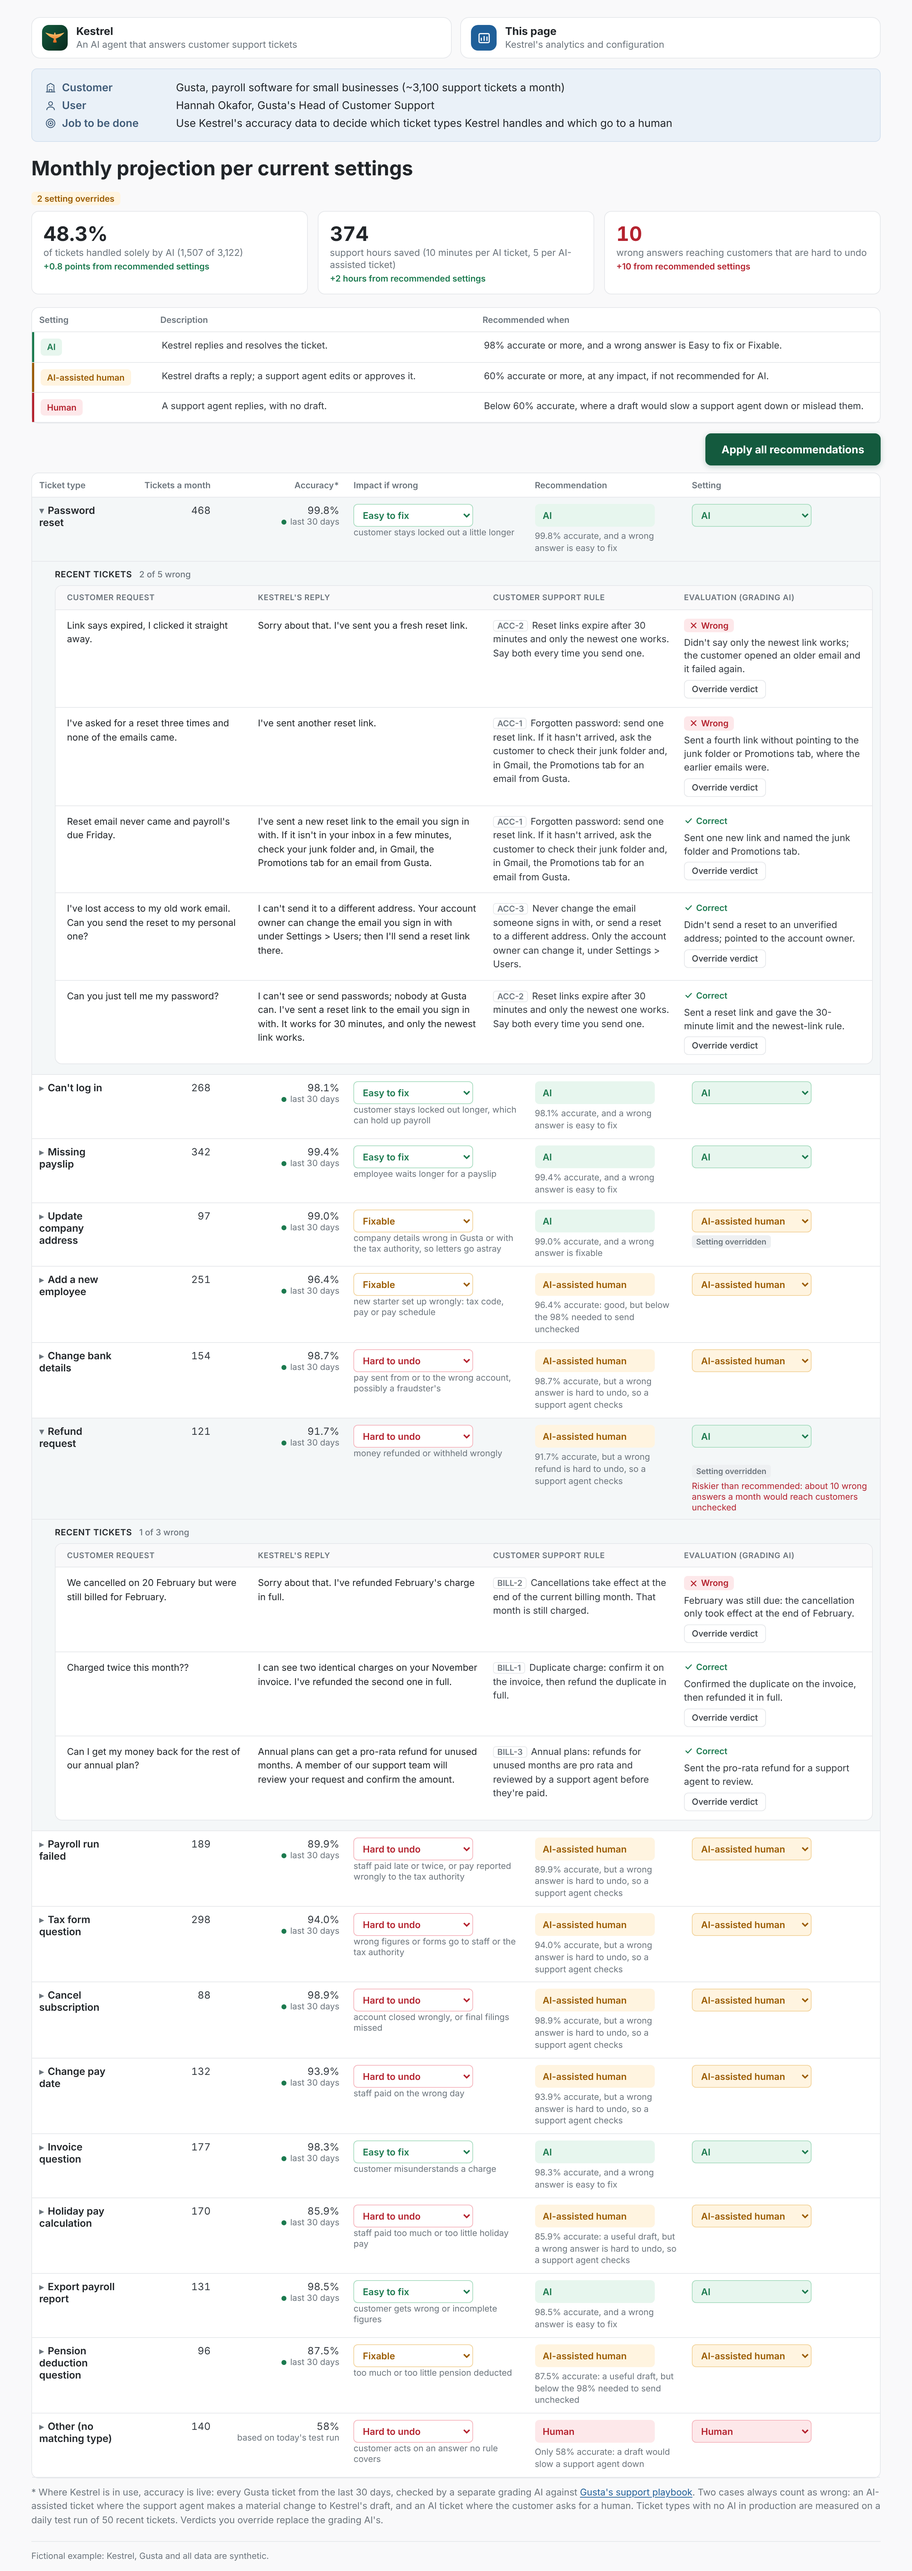
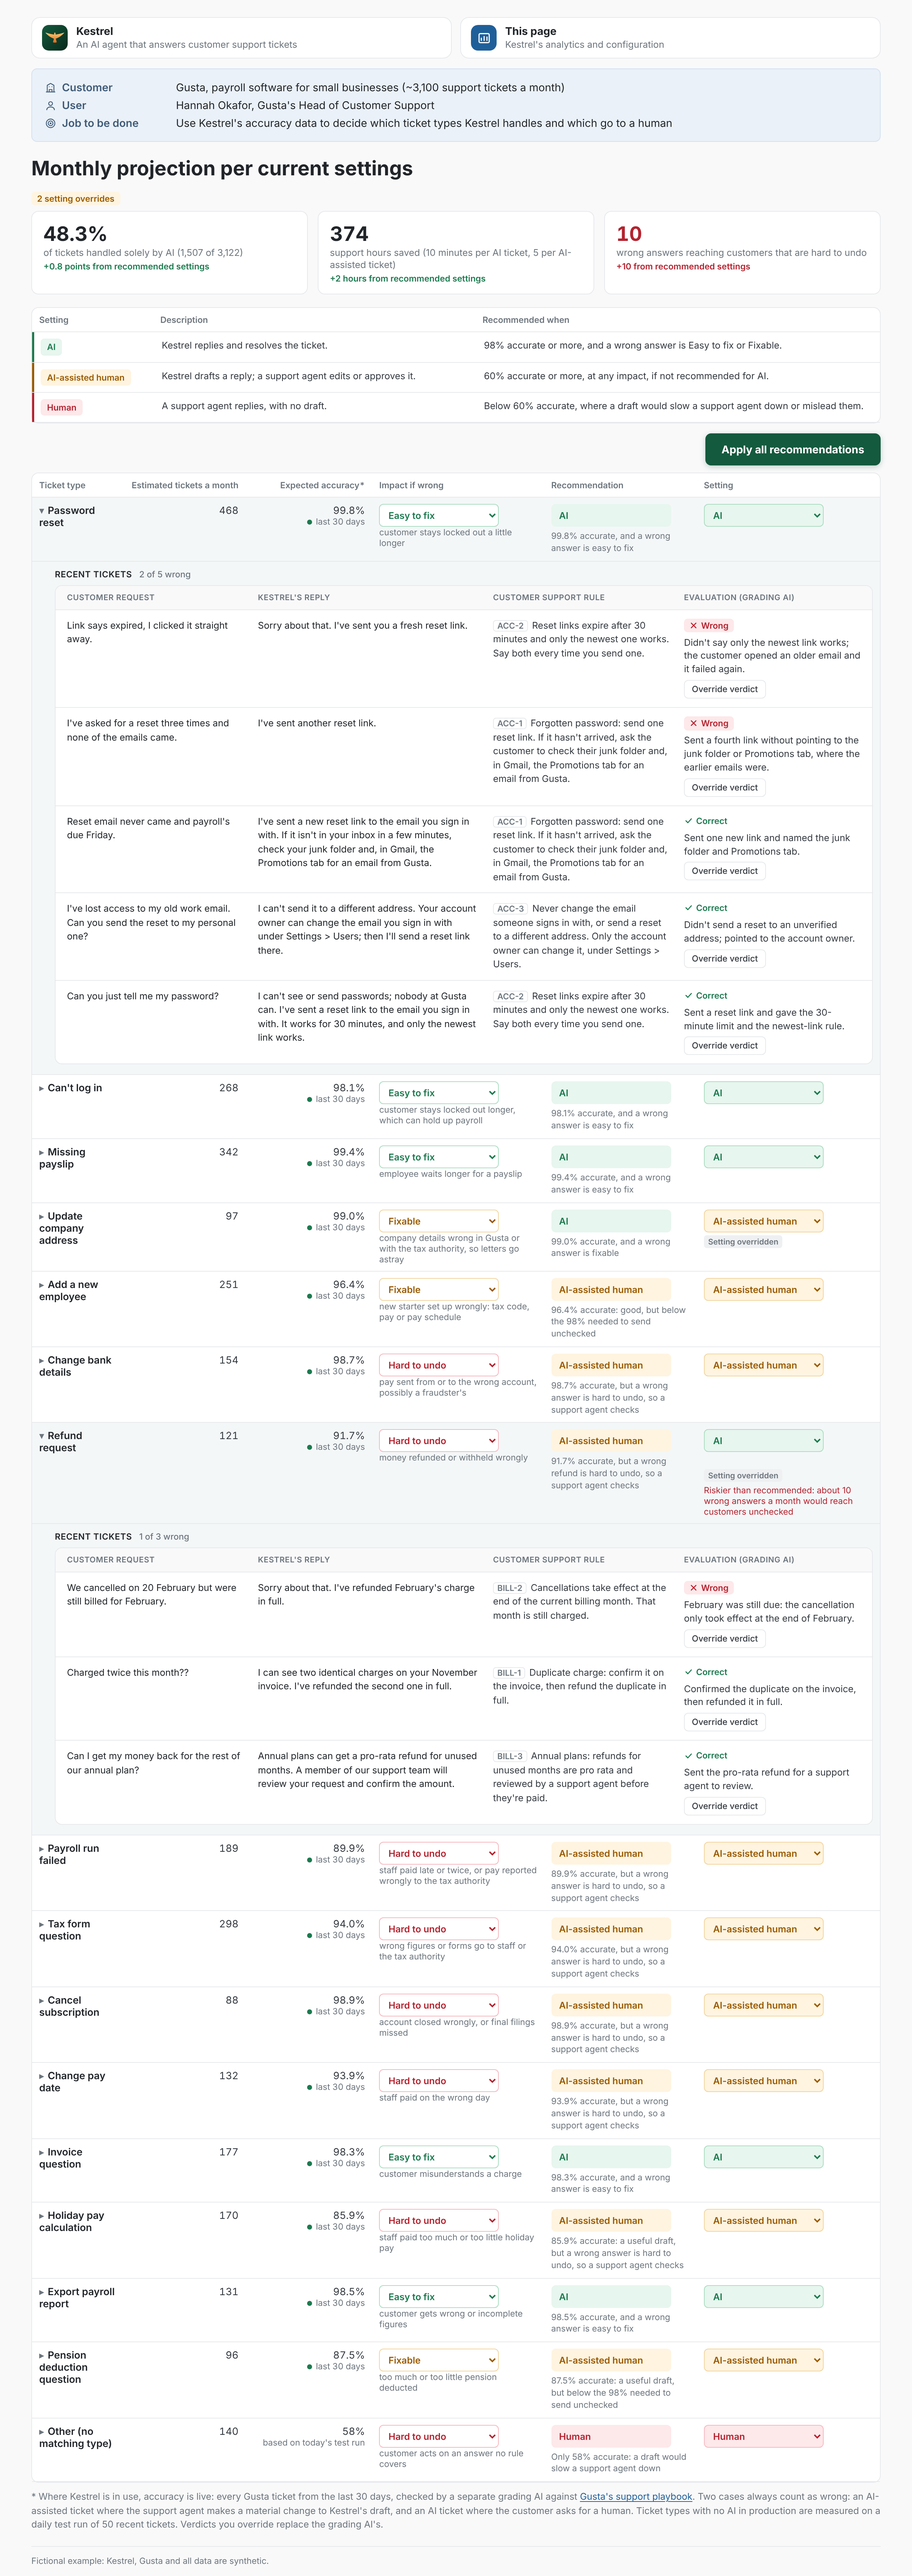
Column headers: "Estimated tickets a month" and "Expected accuracy"
Headers, phone labels and the override confirmation use the new names;
the tickets column is kept narrow so ticket type names stay on one line.

Claude-Session: https://claude.ai/code/session_016JoguZputToL61m2go94gd

diff --git a/examples/kestrel/build/mvp.html b/examples/kestrel/build/mvp.html
@@ -50,6 +50,7 @@ button.apply:hover{background:var(--brand-dark)}
 .panel{background:#fff;border:1px solid var(--line);border-radius:10px}
 table{width:100%;border-collapse:collapse}
 th{text-align:left;font-size:12px;color:var(--mute);font-weight:600;padding:9px 10px;border-bottom:1px solid var(--line)}
+#types tr.hdr th:nth-child(2){width:120px}
 td{padding:9px 10px;border-bottom:1px solid var(--line);vertical-align:top}
 td.n,th.n{text-align:right;font-variant-numeric:tabular-nums;white-space:nowrap}
 tr.row{cursor:pointer}tr.row:hover{background:var(--open)}tr.row.open{background:var(--open)}
@@ -233,15 +234,15 @@ function render(){
       : `<div class="warn">Riskier than recommended: support agents would need to catch about ${w} wrong ${w === 1 ? 'draft' : 'drafts'} a month</div>`;
     const main = `<tr class="row${isOpen ? ' open' : ''}" data-i="${i}" onclick="if (!event.target.closest('select, button, a, input')) toggle(${i})">
       <td><span class="chev">${isOpen ? '▾' : '▸'}</span><span class="name">${t.name}</span></td>
-      <td class="n" data-label="Tickets a month">${fmt(t.tickets)}</td>
-      <td data-label="Accuracy*" class="n acc ${accFlash[i] ? (accFlash[i] > 0 ? 'acc-up' : 'acc-down') : ''}">${accFlash[i] ? `<span class="accd">${accFlash[i] > 0 ? '▲ +' : '▼ −'}${Math.abs(accFlash[i]).toFixed(1)}</span>` : ''}${p}%<div class="sub">${t.tested === t.tickets ? '<span class="live-dot"></span>last 30 days' : "based on today's test run"}</div></td>
+      <td class="n" data-label="Estimated tickets a month">${fmt(t.tickets)}</td>
+      <td data-label="Expected accuracy*" class="n acc ${accFlash[i] ? (accFlash[i] > 0 ? 'acc-up' : 'acc-down') : ''}">${accFlash[i] ? `<span class="accd">${accFlash[i] > 0 ? '▲ +' : '▼ −'}${Math.abs(accFlash[i]).toFixed(1)}</span>` : ''}${p}%<div class="sub">${t.tested === t.tickets ? '<span class="live-dot"></span>last 30 days' : "based on today's test run"}</div></td>
       <td data-label="Impact if wrong"><select class="ctl rk-${t.risk}" data-risk="${i}" onchange="setRisk(${i}, this.value)">${['Low', 'Medium', 'High'].map(v => `<option value="${v}"${v === t.risk ? ' selected' : ''}>${IMPACT[v]}</option>`).join('')}</select>${adj ? '<div class="adjusted">Impact adjusted</div>' : `<div class="sub">${t.risk_example.replace(/^\w+: /, '')}</div>`}</td>
       <td data-label="Recommendation"><span class="chip ctl c-${rec}">${LABEL[rec]}</span>${adj ? '' : `<div class="reason">${t.reason.replace(/\d+(\.\d)?%/, p + '%')}</div>`}</td>
       <td data-label="Setting"><select class="ctl s-${set}" data-i="${i}" onchange="setMode(${i}, this.value)">${['resolve', 'draft', 'human'].map(m => `<option value="${m}"${m === set ? ' selected' : ''}>${LABEL[m]}</option>`).join('')}</select>${over}${warn}</td>
 </tr>`;
     const det = isOpen ? `<tr class="detail"><td colspan="6">${exList(i, t)}</td></tr>` : '';
     return main + det; }).join('');
-  document.getElementById('types').innerHTML = `<tr class="hdr"><th>Ticket type</th><th class="n">Tickets a month</th><th class="n" id="thAcc"><span id="thAccLabel">Accuracy*</span></th><th>Impact if wrong</th><th>Recommendation</th><th>Setting</th></tr>${rows}`;
+  document.getElementById('types').innerHTML = `<tr class="hdr"><th>Ticket type</th><th class="n">Estimated tickets a month</th><th class="n" id="thAcc"><span id="thAccLabel">Expected accuracy*</span></th><th>Impact if wrong</th><th>Recommendation</th><th>Setting</th></tr>${rows}`;
 }
 // recent tickets as lines: the grading AI's Wrong ones first (order fixed, so a row doesn't jump when overridden); the verdict is the only colour
 const EX_COLS = ['Customer request', `reply`, 'Customer support rule', 'Evaluation (grading AI)'];
@@ -288,9 +289,9 @@ function closeOverride(){ ['ovr', 'ovrBack'].forEach(id => { const el = document
 document.addEventListener('keydown', ev => { if (ev.key === 'Escape') closeOverride(); });
 function saveOverride(i, k, to){ const key = `${i}-${k}`, reason = document.getElementById('ovrReason').value.trim(), editing = !!ovr[key];
   const rec = applyVerdict(i, k, () => { ovr[key] = {correct: to, reason}; }); closeOverride();
-  toast(editing ? (reason ? 'Reason saved.' : 'Reason removed.') : `Verdict changed to ${to ? 'Correct' : 'Wrong'}. Accuracy now ${accText(i)}.${rec}`, `.exrow[data-ex="${key}"] .vtools`); }
+  toast(editing ? (reason ? 'Reason saved.' : 'Reason removed.') : `Verdict changed to ${to ? 'Correct' : 'Wrong'}. Expected accuracy now ${accText(i)}.${rec}`, `.exrow[data-ex="${key}"] .vtools`); }
 function undoOverride(i, k){ const key = `${i}-${k}`; const rec = applyVerdict(i, k, () => { delete ovr[key]; });
-  toast(`Back to the grading AI's verdict. Accuracy now ${accText(i)}.${rec}`, `.exrow[data-ex="${key}"] .vtools`); }
+  toast(`Back to the grading AI's verdict. Expected accuracy now ${accText(i)}.${rec}`, `.exrow[data-ex="${key}"] .vtools`); }
 function toggle(i){ open.has(i) ? open.delete(i) : open.add(i); render(); }
 // colour a card for a moment when its number changes: green if the change is good, red if not
 let last = null;

diff --git a/examples/kestrel/build/check_mvp.js b/examples/kestrel/build/check_mvp.js
@@ -12,7 +12,7 @@ const srv = http.createServer((q, r) => { const f = path.join(root, decodeURICom
   t('no top bar', !(await p.$('#topbar')));
   t('the design font is loaded as a web font, not borrowed from the machine', await p.evaluate(async () => { await document.fonts.ready; return [...document.fonts].some(f => f.family.replace(/"/g, '') === 'Inter' && f.status === 'loaded'); }));
   const it = await txt('#intro'), hd = await txt('#header'); t('Kestrel and This page at the top, outside the box', it.includes('An AI agent that answers customer support tickets') && it.indexOf('An AI agent') < it.indexOf("Kestrel's analytics and configuration") && !hd.includes("Kestrel's analytics") && hd.includes('Customer'));
-  t('accuracy footnote below the table explains the overrides', (await txt('#measure')).startsWith('* Where Kestrel is in use, accuracy is live') && (await txt('#thAcc')) === 'Accuracy*' && (await txt('#measure')).includes('makes a material change') && (await p.evaluate(() => !!(document.querySelector('#types').compareDocumentPosition(document.querySelector('#measure')) & Node.DOCUMENT_POSITION_FOLLOWING))) && (await txt('#measure')).includes('asks for a human') && (await txt('#measure')).includes('Ticket types with no AI in production are measured on a daily test run of 50 recent tickets') && (await p.title()) === 'Kestrel Dashboard');
+  t('accuracy footnote below the table explains the overrides', (await txt('#measure')).startsWith('* Where Kestrel is in use, accuracy is live') && (await txt('#thAcc')) === 'Expected accuracy*' && (await txt('#measure')).includes('makes a material change') && (await p.evaluate(() => !!(document.querySelector('#types').compareDocumentPosition(document.querySelector('#measure')) & Node.DOCUMENT_POSITION_FOLLOWING))) && (await txt('#measure')).includes('asks for a human') && (await txt('#measure')).includes('Ticket types with no AI in production are measured on a daily test run of 50 recent tickets') && (await p.title()) === 'Kestrel Dashboard');
   t('the user is named: Hannah Okafor, Head of Customer Support', (await txt('#header')).includes("Hannah Okafor, Gusta's Head of Customer Support"));
   t('impact lines say "tax authority", not HMRC', await p.$$eval('#types tr.row td:nth-child(4) .sub', es => es.length === 16 && es.every(e => !e.textContent.includes('HMRC')) && es.some(e => e.textContent.includes('the tax authority'))));
   t('impact labels say how hard a mistake is to undo; no legend, each row explains itself', (await p.$$eval('select[data-risk="0"] option', os => os.map(o => o.textContent).join('|'))) === 'Easy to fix|Fixable|Hard to undo' && !(await p.$('.impact-key')) && (await txt('tr.row[data-i="0"] .reason')).includes('a wrong answer is easy to fix') && (await txt('#summary')).includes('wrong answers reaching customers that are hard to undo'));

diff --git a/README.md b/README.md
@@ -19,7 +19,7 @@ Kestrel's analytics and configuration page, for Hannah Okafor, Gusta's Head of C
 |---|---|
 | Monthly projection per current settings | **44.4%** of tickets handled solely by AI (1,386 of 3,122) · **364** support hours saved (10 minutes per ticket fully handled by AI, 5 per ticket partially handled by AI) · **0** wrong answers reaching customers that are hard to undo. Recalculates as settings change; each change flashes green or red and shows the difference from the recommended settings |
 | Settings | **AI**: Kestrel replies and resolves (recommended at 98%+ accuracy when a wrong answer is Easy to fix or Fixable) · **AI-assisted human**: Kestrel drafts, a support agent approves or edits (60%+ whatever the impact, since a support agent checks every draft) · **Human**: routed to a human agent (below 60%, where a draft wouldn't save a support agent time and may confuse them instead; today only Other, the tickets that match no type) |
-| The table | 16 ticket types: tickets a month, accuracy (live where Kestrel is in use: a dot blinks every second, and every 5 seconds one ticket type updates, rows higher in the table more often, shown in green or red), impact if wrong (Easy to fix, Fixable or Hard to undo), Kestrel's recommendation with its reason, and the setting Gusta controls |
+| The table | 16 ticket types: estimated tickets a month, expected accuracy (live where Kestrel is in use: a dot blinks every second, and every 5 seconds one ticket type updates, rows higher in the table more often, shown in green or red), impact if wrong (Easy to fix, Fixable or Hard to undo), Kestrel's recommendation with its reason, and the setting Gusta controls |
 | Adjustments | Impact and setting are both editable. Changing an impact shows "Impact adjusted" and re-runs the recommendation; changing a setting shows "Setting overridden" and warns when it gives Kestrel more autonomy than recommended. A confirmation appears after each change. The page opens with one setting override (Update company address moved down from AI to AI-assisted human, so the cost of caution shows: 3.1 points less AI share, 8 fewer hours); "Apply all recommendations" resets it. Each recent ticket's verdict can be overridden in a pop-up (Correct to Wrong or back), with an optional reason you can edit or remove; overrides count in accuracy |
 | Recent tickets | 3 under each ticket type (5 for Password reset), one line per ticket with Wrong ones first: customer request, Kestrel's reply, the rule it was graded against (quoted by ID from Gusta's fictional [support playbook](examples/kestrel/data/support_playbook.md)), and the grading AI's verdict (Correct or Wrong) |
 

diff --git a/examples/kestrel/06-screen-specs.md b/examples/kestrel/06-screen-specs.md
@@ -10,5 +10,5 @@ One page: [design/1-overview.png](design/1-overview.png) (Password reset expande
 | Three numbers | Share handled by AI, hours saved, wrong answers reaching customers | Match the table to the ticket |
 | Decision rules | AI, AI-assisted human, Human, colour-coded | Above the table |
 | Setting | A dropdown per row, defaulting to the recommendation; "Setting overridden" tag; a warning above the recommendation; "Apply all recommendations" | The three numbers update live |
-| Table | One row per type: tickets, accuracy on 50, cost of a wrong call with an example, recommendation, reason | Every row follows the rule |
+| Table | One row per type: estimated tickets a month, expected accuracy, cost of a wrong call with an example, recommendation, reason | Every row follows the rule |
 | Examples | Recent tickets under each row (3, or 5 for Password reset) as lines, one per ticket, in four columns: customer request, Kestrel's reply, customer support rule, evaluation (grading AI). The grading AI's Wrong tickets first; the heading counts them ("2 of 5 wrong"). Colour only on the verdict pill (Wrong on a light red tint, Correct as green text); rows are white; Override verdict is a neutral button | Password reset open by default; clicking a row expands it; types below 100% show a Wrong example; on a phone each ticket stacks with its four labels |
